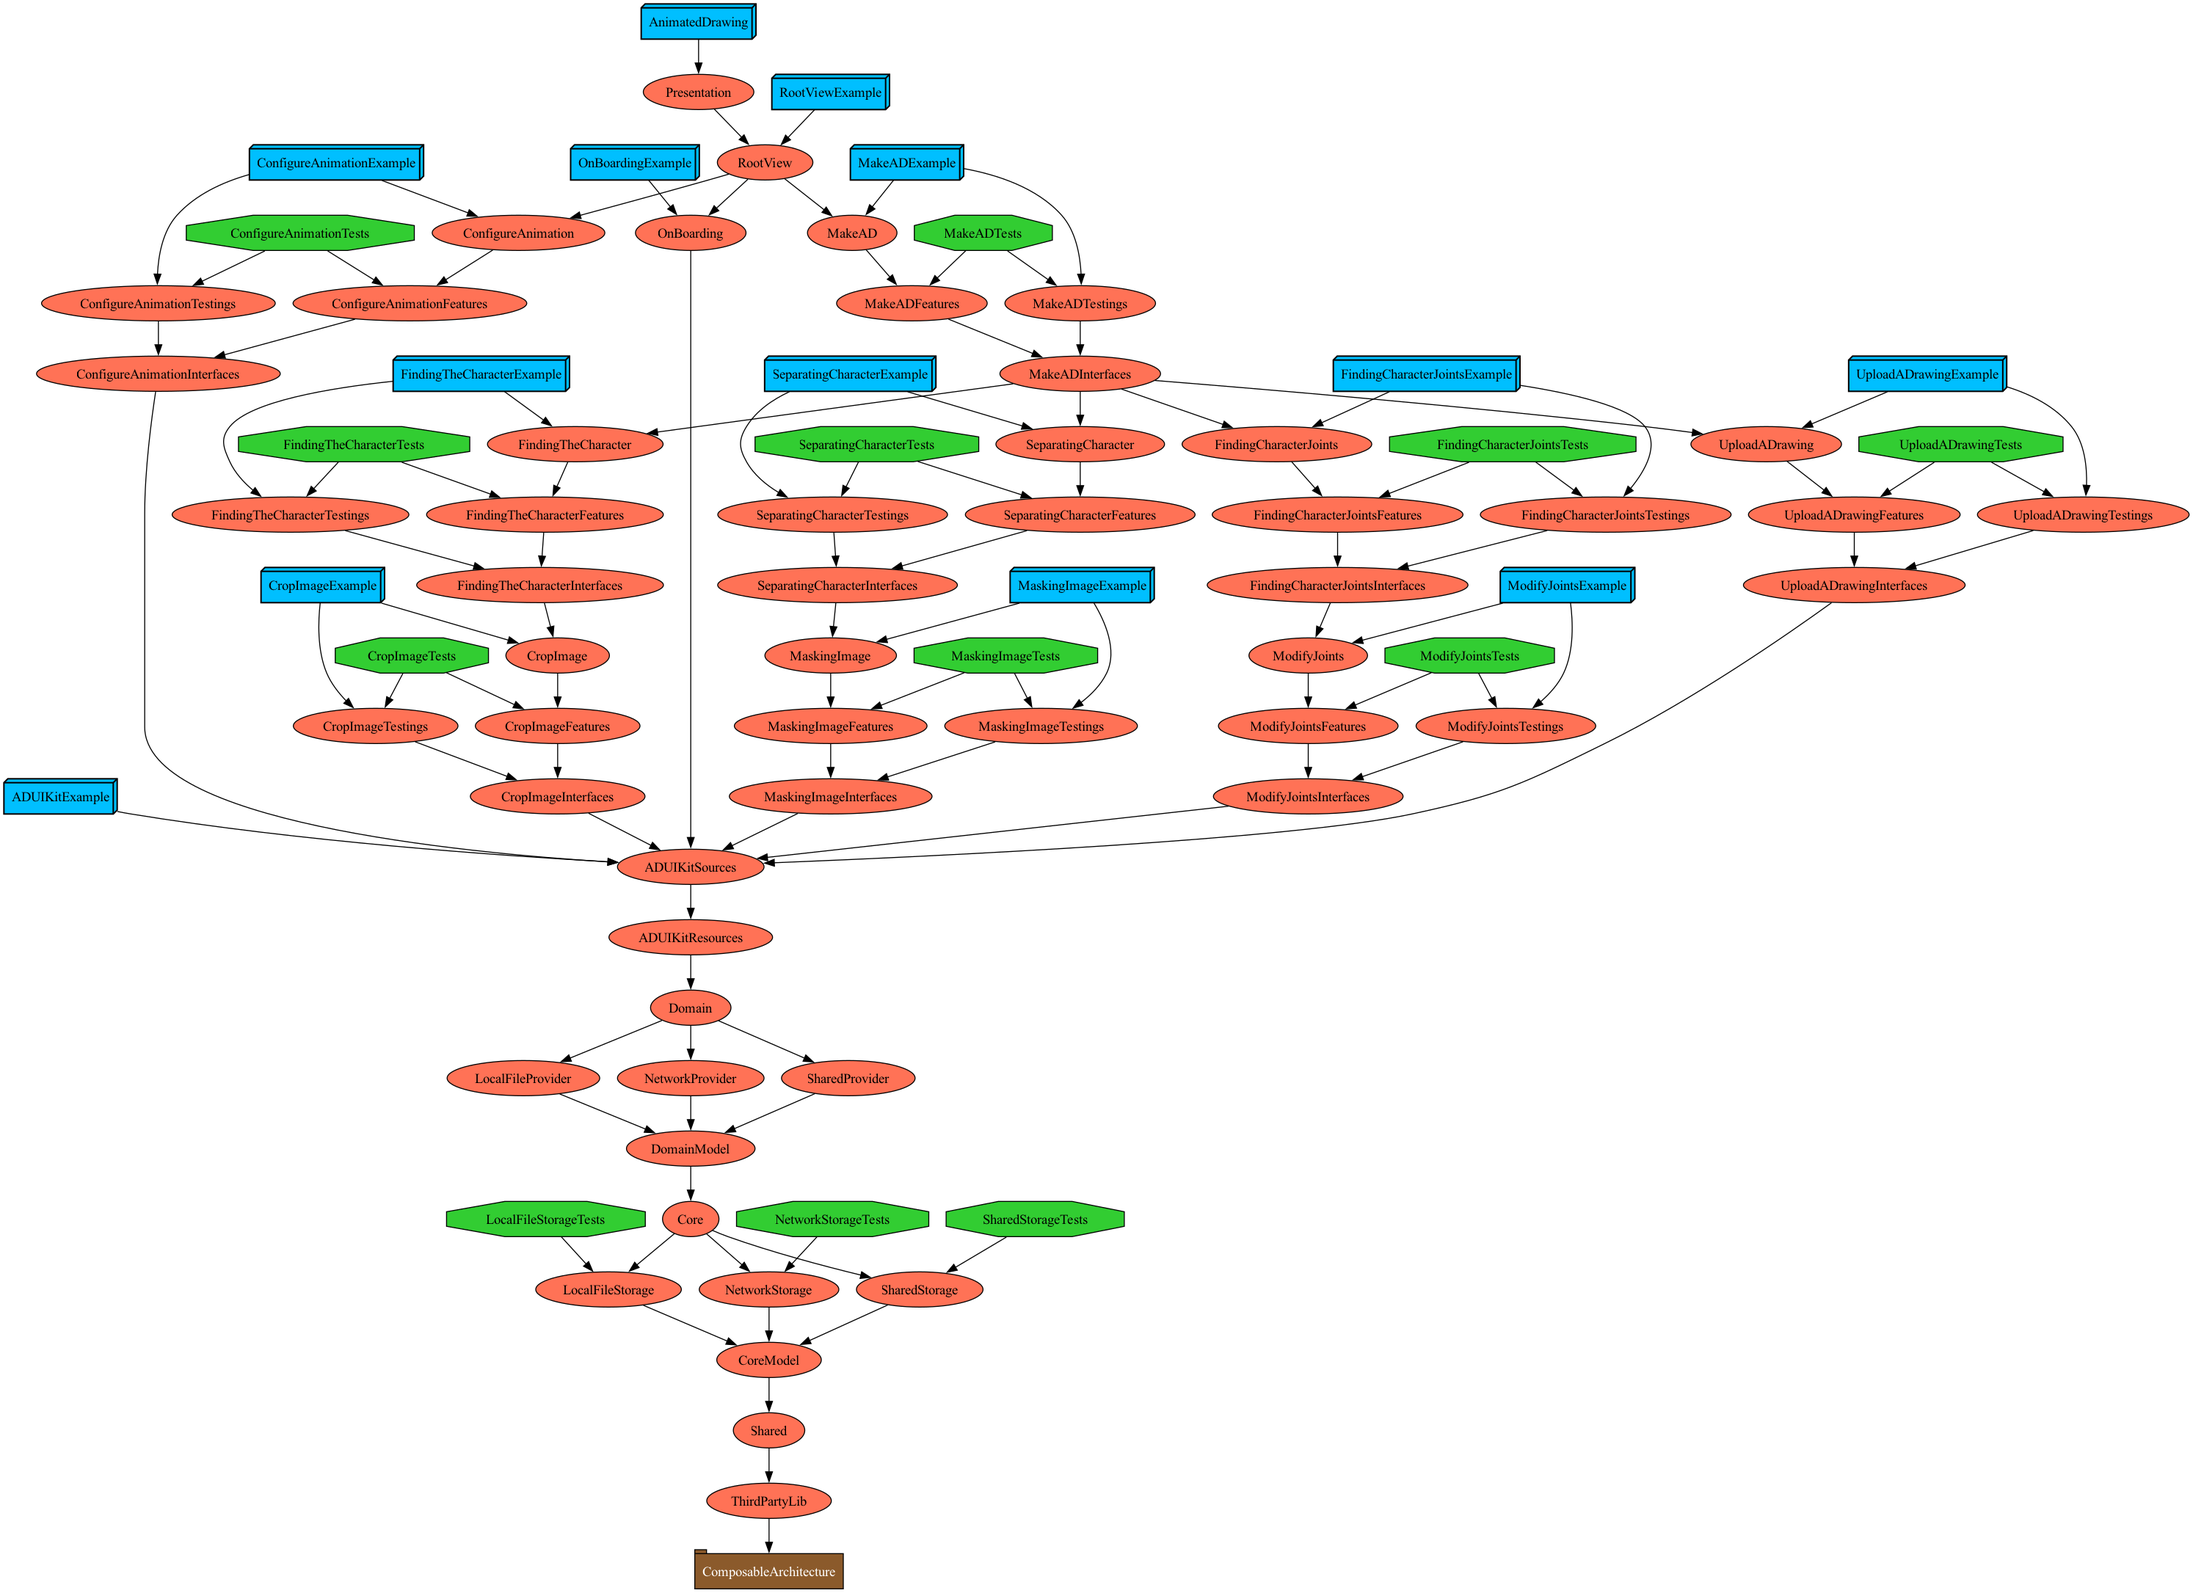
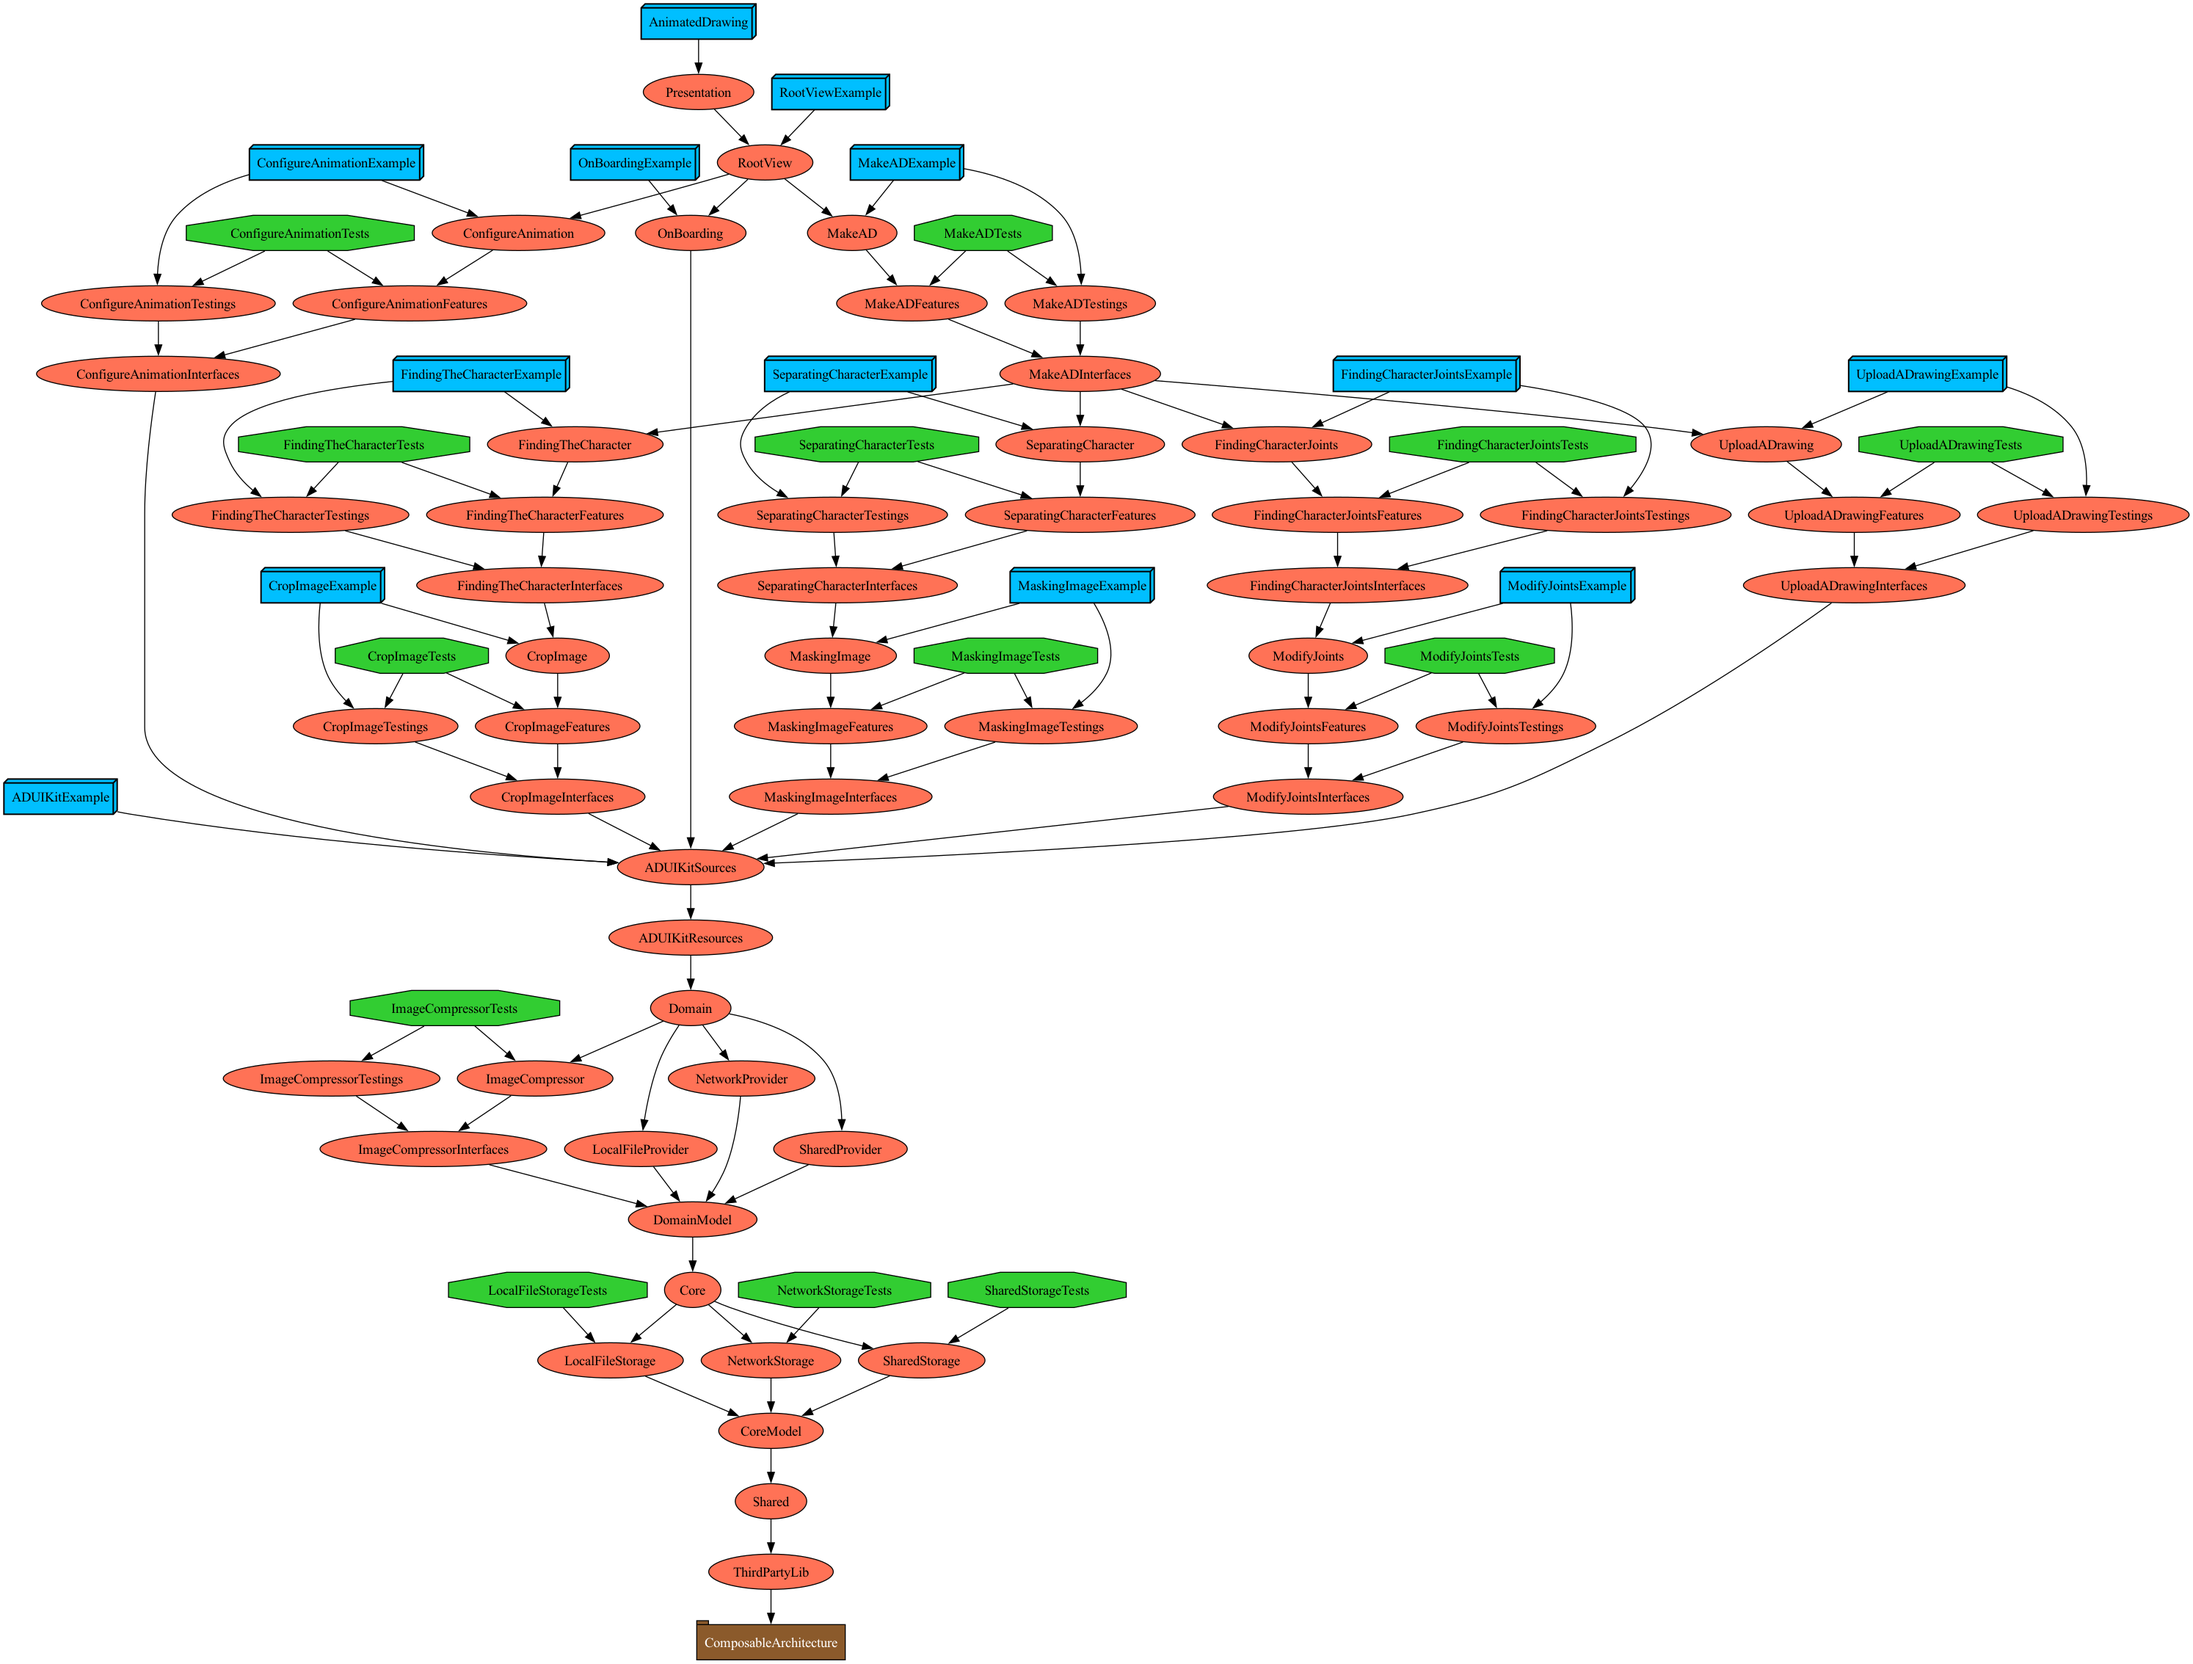
[Feat] : ImageCompressor 모듈 생성
Git : #61

Changed region(s): [[0.0, 0.0, 1.0, 1.0], [0.0, 0.4629, 0.0622, 0.5246], [0.0934, 0.4938, 0.1556, 0.5246]]

diff --git a/Plugins/ProjectEnvironment/ProjectDescriptionHelpers/ADModules/Domain/ImageCompressor.swift b/Plugins/ProjectEnvironment/ProjectDescriptionHelpers/ADModules/Domain/ImageCompressor.swift
@@ -1,12 +1,12 @@
 //
-//  LocalFileProvider.swift
+//  ImageCompressor.swift
 //  ProjectEnvironment
 //
-//  Created by minii on 2023/09/19.
+//  Created by chminii on 2/26/24.
 //
 
 import Foundation
 
-public struct LocalFileProvider: uFeatureModule {
+public struct ImageCompressor: uFeatureModule {
   public static let prefixPathString: String = Domain.prefixPathString
 }

diff --git a/Projects/Presentation/UploadADrawing/Features/UploadADrawingFeature/Actions/UploadADrawingDelegateAction.swift b/Projects/Presentation/UploadADrawing/Features/UploadADrawingFeature/Actions/UploadADrawingDelegateAction.swift
@@ -20,10 +20,7 @@ public extension UploadADrawingFeature {
       switch action {
       case .delegate(let delegateAction):
         switch delegateAction {
-        case .setOriginalImage(let image): // default: 처리 가능?
-          return .none
-          
-        case .setBoundingBox(let box):
+        default:
           return .none
         }
       default:

diff --git a/Projects/Domain/ImageCompressor/Project.swift b/Projects/Domain/ImageCompressor/Project.swift
@@ -1,0 +1,16 @@
+//
+//  Project.swift
+//  Config
+//
+//  Created by chminii on 2/26/24.
+//
+
+import ProjectDescription
+import ProjectEnvironment
+
+let project: Project = .makeProject(
+  name: ImageCompressor.projectName,
+  targets: ImageCompressor.uFeatureTargets(
+    dependencies: [DomainModel.projectDepedency]
+  )
+)

diff --git a/Projects/Domain/Domain/Project.swift b/Projects/Domain/Domain/Project.swift
@@ -17,7 +17,8 @@ let project: Project = .makeProject(
       dependencies: [
         LocalFileProvider.projectDepedency,
         SharedProvider.projectDepedency,
-        NetworkProvider.projectDepedency
+        NetworkProvider.projectDepedency,
+        ImageCompressor.projectDepedency
       ]
     )
   ]

diff --git a/Plugins/ProjectEnvironment/ProjectDescriptionHelpers/ADModules/Domain/NetworkProvider.swift b/Plugins/ProjectEnvironment/ProjectDescriptionHelpers/ADModules/Domain/NetworkProvider.swift
@@ -8,5 +8,5 @@
 import Foundation
 
 public struct NetworkProvider: uFeatureModule {
-  public static var prefixPathString: String = Domain.prefixPathString
+  public static let prefixPathString: String = Domain.prefixPathString
 }

diff --git a/Plugins/ProjectEnvironment/ProjectDescriptionHelpers/ADModules/Domain/SharedProvider.swift b/Plugins/ProjectEnvironment/ProjectDescriptionHelpers/ADModules/Domain/SharedProvider.swift
@@ -8,5 +8,5 @@
 import Foundation
 
 public struct SharedProvider: uFeatureModule {
-  public static var prefixPathString: String = Domain.prefixPathString
+  public static let prefixPathString: String = Domain.prefixPathString
 }

diff --git a/Plugins/ProjectEnvironment/ProjectDescriptionHelpers/ADModules/Domain/DomainModel.swift b/Plugins/ProjectEnvironment/ProjectDescriptionHelpers/ADModules/Domain/DomainModel.swift
@@ -8,5 +8,5 @@
 import Foundation
 
 public struct DomainModel: Module {
-  public static var prefixPathString: String = Domain.prefixPathString
+  public static let prefixPathString: String = Domain.prefixPathString
 }

diff --git a/Plugins/ProjectEnvironment/ProjectDescriptionHelpers/ADModules/Domain/Domain.swift b/Plugins/ProjectEnvironment/ProjectDescriptionHelpers/ADModules/Domain/Domain.swift
@@ -8,5 +8,5 @@
 import Foundation
 
 public struct Domain: Module {
-  public static var prefixPathString: String = "Projects/Domain"
+  public static let prefixPathString: String = "Projects/Domain"
 }

diff --git a/Projects/Domain/ImageCompressor/Features/tmp.swift b/Projects/Domain/ImageCompressor/Features/tmp.swift
@@ -2,7 +2,7 @@
 //  tmp.swift
 //  Config
 //
-//  Created by chminii on 2/12/24.
+//  Created by chminii on 2/26/24.
 //
 
 import Foundation

diff --git a/Projects/Domain/ImageCompressor/Interfaces/tmp.swift b/Projects/Domain/ImageCompressor/Interfaces/tmp.swift
@@ -1,0 +1,8 @@
+//
+//  tmp.swift
+//  Config
+//
+//  Created by chminii on 2/26/24.
+//
+
+import Foundation

diff --git a/Projects/Domain/ImageCompressor/Testings/tmp.swift b/Projects/Domain/ImageCompressor/Testings/tmp.swift
@@ -1,0 +1,8 @@
+//
+//  tmp.swift
+//  Config
+//
+//  Created by chminii on 2/26/24.
+//
+
+import Foundation

diff --git a/Projects/Domain/ImageCompressor/Tests/tmp.swift b/Projects/Domain/ImageCompressor/Tests/tmp.swift
@@ -1,0 +1,8 @@
+//
+//  tmp.swift
+//  Config
+//
+//  Created by chminii on 2/26/24.
+//
+
+import Foundation
